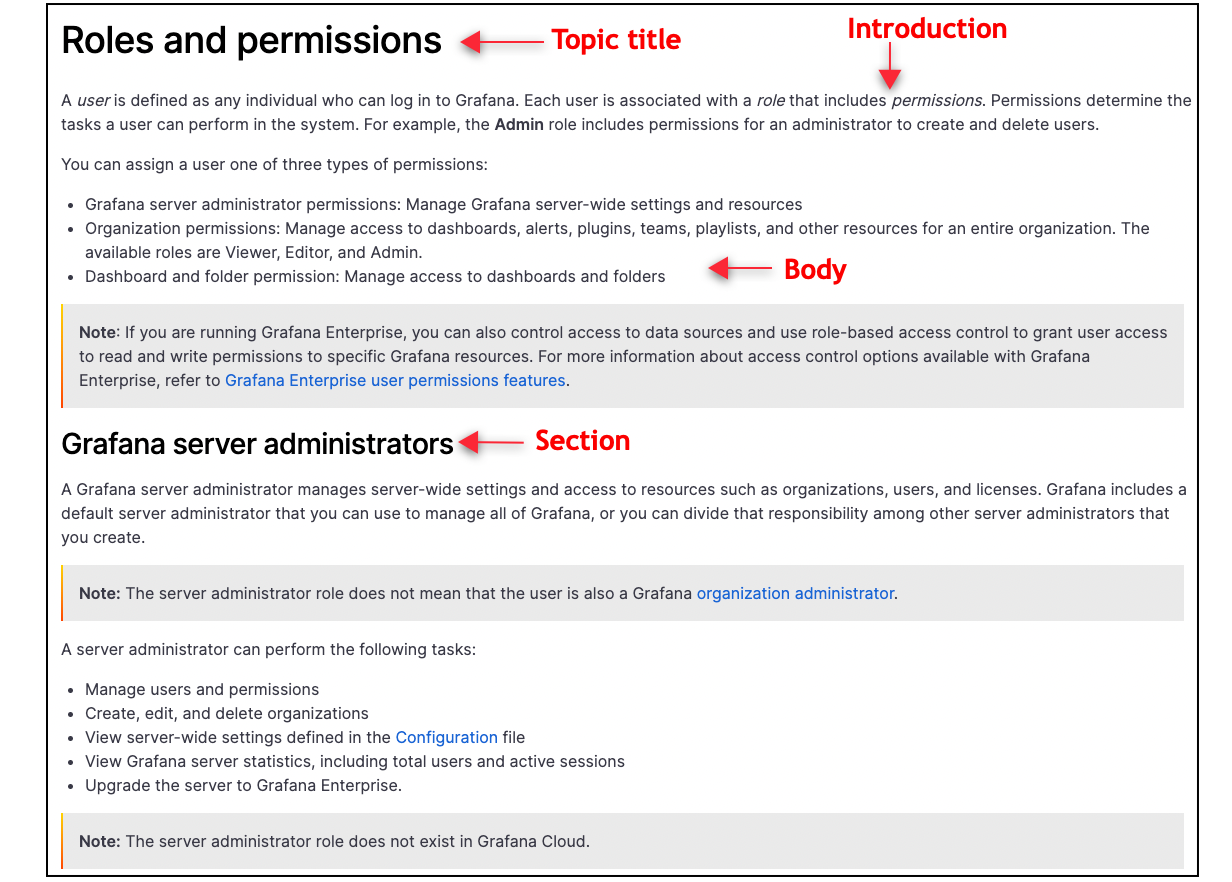
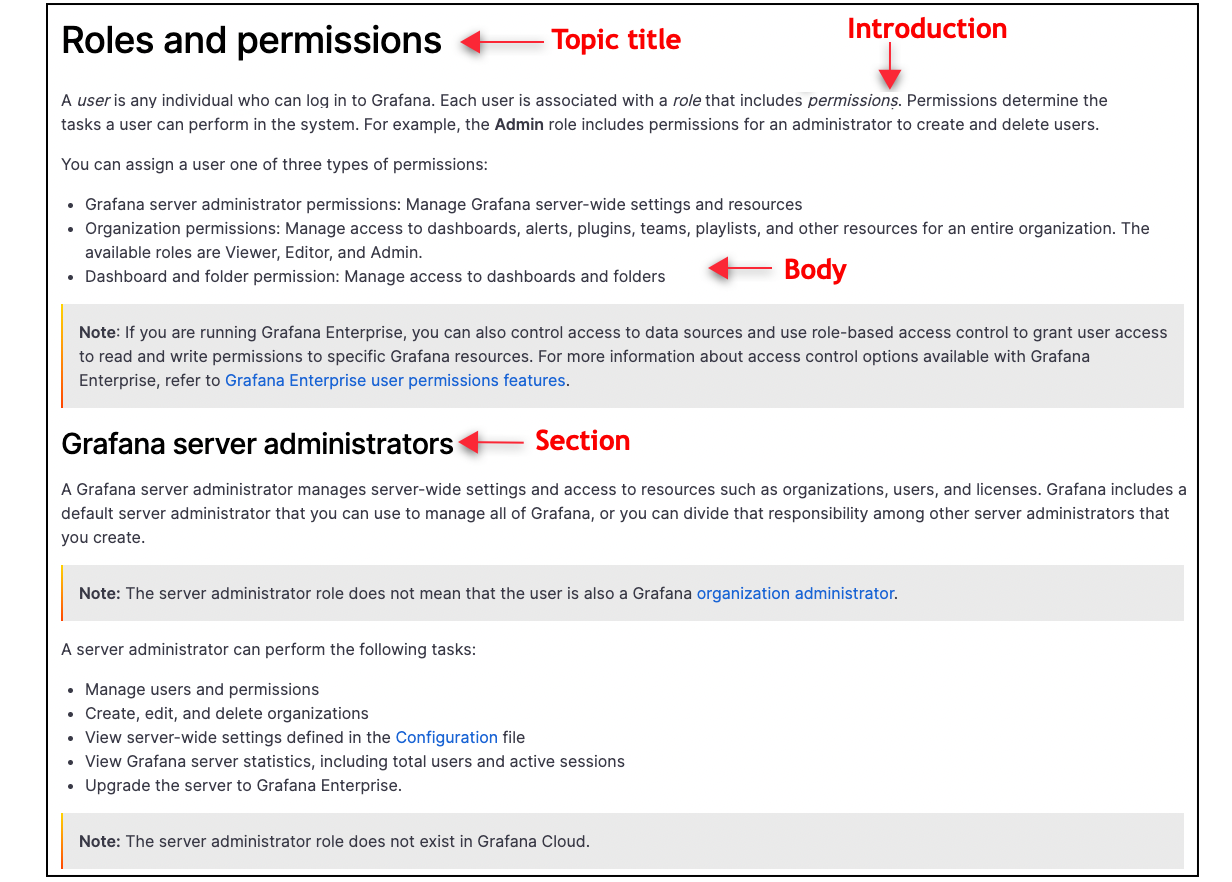
updates image and removes quotes

Changed region(s): [[0.0925, 0.0918, 0.9562, 0.1224]]

diff --git a/docs/static/templates/concept-template.md b/docs/static/templates/concept-template.md
@@ -1,16 +1,17 @@
 ---
-title: "Concept title"
-menuTitle: "Concept"
-description: “Use this template when you write a concept topic.”
-aliases: ["/docs/writers-toolkit/latest/templates/concept-template"]
+title: Concept title
+menuTitle: Concept
+description: Use this template when you write a concept topic.
+aliases:
+  - /docs/writers-toolkit/latest/templates/concept-template
 weight: 100
 keywords:
-    - keyword 1
-    - keyword 2
-    - keyword 3
+  - keyword 1
+  - keyword 2
+  - keyword 3
 ---
 
-<!-- Refer to [Topic front matter]({{< relref "../../front-matter/" >}}) for more information about how to populate front matter. -->
+<!-- Refer to [Front matter]({{< relref "../../front-matter/" >}}) for more information about how to populate front matter. -->
 
 # Concept title
 <!-- vale Grafana.Quotes = NO -->

diff --git a/docs/static/templates/reference-template.md b/docs/static/templates/reference-template.md
@@ -1,13 +1,14 @@
 ---
-title: "Reference title"
-menuTitle: "Reference"
-description: “Use this template when you write a reference topic.”
-aliases: ["/docs/writers-toolkit/latest/templates/reference-template"]
+title: Reference title
+menuTitle: Reference
+description: Use this template when you write a reference topic.
+aliases:
+  - /docs/writers-toolkit/latest/templates/reference-template
 weight: 100
 keywords:
-    - keyword 1
-    - keyword 2
-    - keyword 3
+  - keyword 1
+  - keyword 2
+  - keyword 3
 ---
 <!-- Refer to [Topic front matter]({{< relref "../../front-matter/" >}}) for more information about how to populate front matter. -->
 

diff --git a/docs/static/templates/task-template.md b/docs/static/templates/task-template.md
@@ -1,13 +1,14 @@
 ---
-title: "Task title"
-menuTitle: "Task"
-description: “Use this template when you write a task topic.”
-aliases: ["/docs/writers-toolkit/latest/templates/task-template"]
+title: Task title
+menuTitle: Task
+description: Use this template when you write a task topic.
+aliases:
+  - /docs/writers-toolkit/latest/templates/task-template
 weight: 100
 keywords:
-    - keyword 1
-    - keyword 2
-    - keyword 3
+  - keyword 1
+  - keyword 2
+  - keyword 3
 ---
 <!-- Refer to [Topic front matter]({{< relref "../../front-matter/" >}}) for more information about how to populate front matter. -->
 
